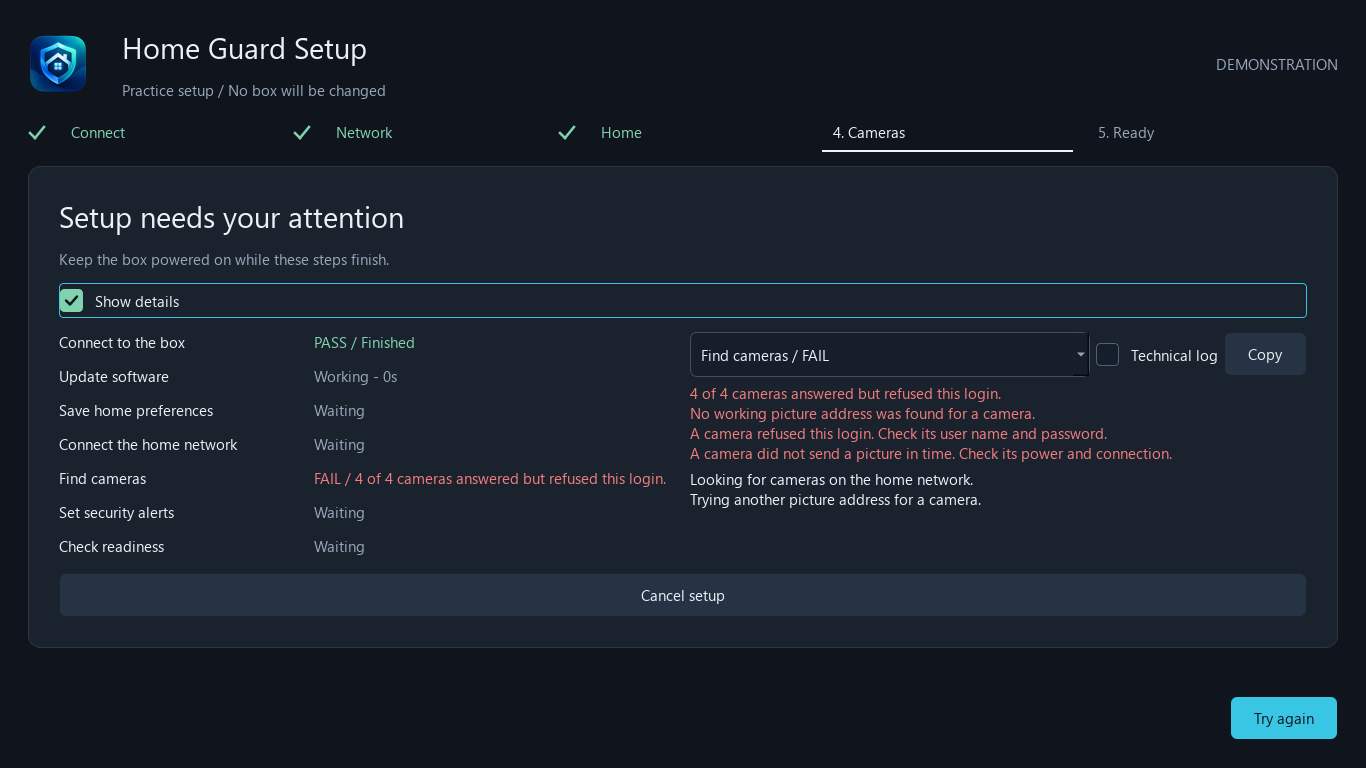
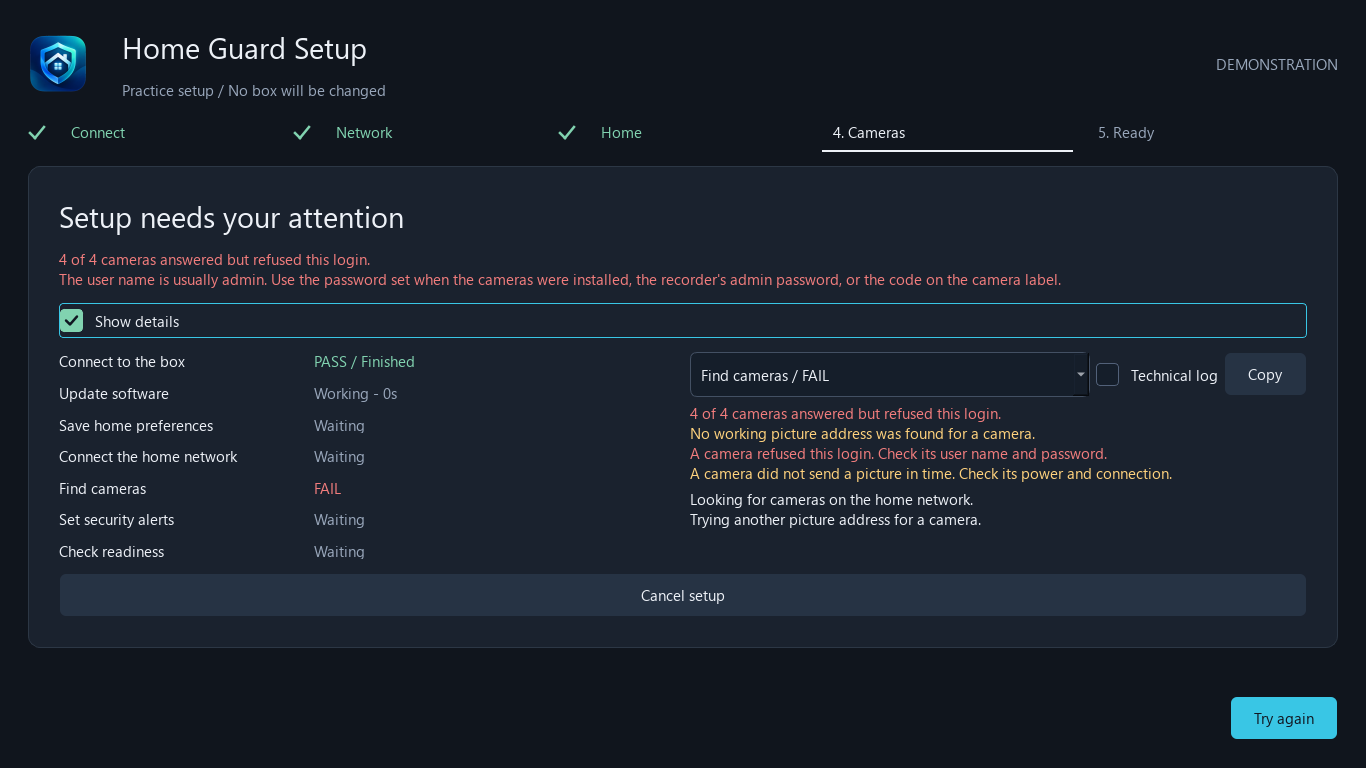
Discover Windows boxes locally and separate address from account name

diff --git a/home_guard_project/box/app/ui.py b/home_guard_project/box/app/ui.py
@@ -657,6 +657,8 @@ class Window(QMainWindow):
 
     def closeEvent(self, event):
         if hasattr(self, "camera_retry"): self.camera_retry.clear()
+        if hasattr(self, "discovery_timer"): self.discovery_timer.stop()
+        if hasattr(self, "discovery_pool"): self.discovery_pool.shutdown(wait=False, cancel_futures=True)
         if hasattr(self, "cameras_page"):
             self.cameras_page.close()
         if hasattr(self,"wizard_cameras"):
@@ -728,7 +730,27 @@ class Window(QMainWindow):
                 self.pages.addWidget(summary_scroll)
             else:
                 self.pages.addWidget(panel)
-        self.add_input(0, "address", tr("address"))
+        self.inputs["address"] = QLineEdit()
+        self.inputs["address"].hide()
+        self.field_guidance["address"] = label("")
+        self.field_guidance["address"].setStyleSheet("color: " + ERROR)
+        self.page_layouts[0].addWidget(label(tr("box_label")))
+        self.box_picker = QComboBox()
+        self.box_picker.addItem(tr("box_loading"), None)
+        self.page_layouts[0].addWidget(self.box_picker)
+        self.box_address = QLineEdit()
+        self.box_address.setPlaceholderText(tr("box_address_placeholder"))
+        self.page_layouts[0].addWidget(self.box_address)
+        self.box_hint = label(tr("box_loading"), "muted")
+        self.page_layouts[0].addWidget(self.box_hint)
+        self.page_layouts[0].addWidget(label(tr("box_user_label")))
+        self.box_user = QLineEdit()
+        self.page_layouts[0].addWidget(self.box_user)
+        self.page_layouts[0].addWidget(label(tr("box_user_help"), "muted"))
+        self.page_layouts[0].addWidget(self.field_guidance["address"])
+        self.box_picker.currentIndexChanged.connect(self.choose_box)
+        self.box_address.textChanged.connect(self.compose_box_target)
+        self.box_user.textChanged.connect(self.compose_box_target)
         self.network = QComboBox()
         self.network.addItems([tr("ethernet"), tr("wifi")])
         self.page_layouts[1].addWidget(self.network)
@@ -882,6 +904,22 @@ class Window(QMainWindow):
             from .preferences import AddressPreference
             self.address_preference=AddressPreference()
             self.inputs["address"].setText(self.address_preference.load())
+        saved_target = self.inputs["address"].text()
+        if "@" in saved_target:
+            saved_user, saved_box = saved_target.split("@", 1)
+            if self.args.demo: self.box_user.setText(saved_user)
+            else: self.box_user.setText(self.address_preference.load_user())
+            self.box_address.setText(saved_box)
+        if self.args.demo:
+            from .box_discovery import Peer
+            self.populate_boxes([Peer(tr("demo_box_name"), "100.100.100.10", True)])
+        else:
+            from .box_discovery import discover
+            self.discovery_pool=ThreadPoolExecutor(max_workers=1)
+            self.discovery_future=self.discovery_pool.submit(discover)
+            self.discovery_timer=QTimer(self)
+            self.discovery_timer.timeout.connect(self.poll_boxes)
+            self.discovery_timer.start(100)
         self.find.setChecked(not self.args.skip_cameras)
         self.alerts.setChecked(self.args.alerts)
         if self.args.wifi:
@@ -962,6 +1000,36 @@ class Window(QMainWindow):
     def valid_page(self,index):
         return not self.errors_for_page(index)
 
+    def compose_box_target(self):
+        self.inputs["address"].setText(self.box_user.text().strip()+"@"+self.box_address.text().strip())
+
+    def choose_box(self, index):
+        address=self.box_picker.itemData(index)
+        self.box_address.setVisible(not bool(address))
+        if address: self.box_address.setText(address)
+
+    def populate_boxes(self, peers):
+        remembered=self.box_address.text()
+        self.box_picker.blockSignals(True)
+        self.box_picker.clear()
+        for peer in peers:
+            self.box_picker.addItem(tr("box_peer", name=peer.name, address=peer.address)+("" if peer.online else tr("box_offline")), peer.address)
+        self.box_picker.addItem(tr("box_manual"), None)
+        selection=next((i for i in range(self.box_picker.count()) if self.box_picker.itemData(i)==remembered), self.box_picker.count()-1 if remembered else 0)
+        self.box_picker.setCurrentIndex(selection)
+        self.box_picker.blockSignals(False)
+        self.box_picker.setVisible(bool(peers))
+        self.box_hint.setText(tr("box_pick_hint") if peers else tr("box_address_help"))
+        self.choose_box(selection)
+        self.compose_box_target()
+
+    def poll_boxes(self):
+        if self.discovery_future.done():
+            self.discovery_timer.stop()
+            try: peers=self.discovery_future.result()
+            except Exception: peers=[]
+            self.populate_boxes(peers)
+
     def next_page(self):
         index = self.pages.currentIndex()
         if index == 5:
@@ -979,13 +1047,14 @@ class Window(QMainWindow):
         if index == 6:
             self.begin_setup()
             return
+        if index == 0: self.compose_box_target()
         errors = self.errors_for_page(index)
         if errors:
             for key,message in errors.items():
                 self.inputs[key].setStyleSheet(f"border: 1px solid {ERROR};")
-                self.field_guidance[key].setText(tr(message))
+                self.field_guidance[key].setText(tr("box_target_error") if index == 0 and key == "address" else tr(message))
                 self.field_guidance[key].show()
-            self.inputs[next(iter(errors))].setFocus()
+            (self.box_user if not self.box_user.text().strip() else self.box_address).setFocus() if index == 0 else self.inputs[next(iter(errors))].setFocus()
             return
         if index == 0 and not self.args.demo:
             try: self.address_preference.save(self.inputs["address"].text().strip())
@@ -1115,6 +1184,9 @@ class Window(QMainWindow):
             item=self.check_labels[i];item.setText(event.status+tr("separator")+event.text)
             item.setStyleSheet("color: "+(ERROR if event.status=="FAIL" else WARNING if event.status=="WARN" else OK))
         self.camera_retry.clear()
+        if not self.args.demo:
+            try: self.address_preference.save_success(self.run_answers.address)
+            except OSError: pass
         self.later.setVisible(not self.run_answers.find_cameras)
         self.setup_success()
 

diff --git a/tests/box/test_box_discovery.py b/tests/box/test_box_discovery.py
@@ -1,0 +1,36 @@
+import json
+import tempfile
+import unittest
+from pathlib import Path
+from types import SimpleNamespace
+from home_guard_project.box.app.box_discovery import parse_peers, discover, compose_target
+from home_guard_project.box.app.preferences import AddressPreference
+
+class BoxDiscoveryTests(unittest.TestCase):
+    def test_windows_only_online_first_deduplicated(self):
+        peers={'a':{'OS':'windows','HostName':'Z box','Online':True,'TailscaleIPs':['100.100.100.10']},'b':{'OS':'windows','HostName':'A box','Online':False,'TailscaleIPs':['100.100.100.11']},'c':{'OS':'linux','Online':True,'TailscaleIPs':['100.100.100.12']}}
+        result=parse_peers(json.dumps({'Peer':peers}))
+        self.assertEqual([p.name for p in result],['Z box','A box'])
+        self.assertEqual(compose_target(' installer ','100.100.100.10 '),'installer@100.100.100.10')
+        with self.assertRaises(ValueError): compose_target('bad user','box.example')
+    def test_local_runner_missing_and_empty(self):
+        calls=[]
+        def runner(command,**kwargs):
+            calls.append(command)
+            self.assertNotIn('VIRTUAL_ENV',kwargs['env'])
+            return SimpleNamespace(returncode=0,stdout='{"Peer": {}}')
+        self.assertEqual(discover(runner),[])
+        self.assertEqual(calls,[['tailscale','status','--json']])
+        def missing(*a,**kw): raise FileNotFoundError()
+        self.assertEqual(discover(missing),[])
+        self.assertEqual(parse_peers('bad JSON'),[])
+    def test_user_changes_only_after_success(self):
+        with tempfile.TemporaryDirectory() as directory:
+            pref=AddressPreference(Path(directory)/'last_box.json')
+            pref.save('installer@box.example')
+            self.assertEqual(pref.load_user(),'')
+            pref.save_success('installer@box.example')
+            pref.save('new_user@another.example')
+            self.assertEqual(pref.load(),'new_user@another.example')
+            self.assertEqual(pref.load_user(),'installer')
+            self.assertEqual(set(json.loads(pref.path.read_text())),{'target','successful_user'})

diff --git a/home_guard_project/box/app/box_discovery.py b/home_guard_project/box/app/box_discovery.py
@@ -1,0 +1,41 @@
+"""Local Tailscale inventory; never opens a connection to a peer."""
+from dataclasses import dataclass
+import json
+import os
+import subprocess
+from .remote_cameras import target_user
+
+@dataclass(frozen=True)
+class Peer:
+    name: str
+    address: str
+    online: bool
+
+def parse_peers(output):
+    try:
+        data=json.loads(output)
+        peers=data.get('Peer', {})
+        values=peers.values() if isinstance(peers,dict) else peers
+        result={}
+        for peer in values:
+            if str(peer.get('OS','')).lower() != 'windows': continue
+            addresses=peer.get('TailscaleIPs', [])
+            address=next((a for a in addresses if ':' not in a), addresses[0] if addresses else '')
+            if not address: continue
+            target_user('user@'+address)
+            name=str(peer.get('HostName') or peer.get('DNSName') or address).rstrip('.')
+            result[address]=Peer(name,address,bool(peer.get('Online',False)))
+        return sorted(result.values(), key=lambda p:(not p.online,p.name.lower(),p.address))
+    except (ValueError,TypeError,AttributeError): return []
+
+def discover(runner=subprocess.run):
+    env=os.environ.copy();env.pop('VIRTUAL_ENV',None)
+    try:
+        result=runner(['tailscale','status','--json'],capture_output=True,text=True,encoding='utf-8',errors='replace',timeout=15,env=env,creationflags=getattr(subprocess,'CREATE_NO_WINDOW',0))
+        return parse_peers(result.stdout) if result.returncode == 0 else []
+    except (OSError,subprocess.TimeoutExpired): return []
+
+def compose_target(user,address):
+    value=user.strip()+'@'+address.strip()
+    target_user(value)
+    return value

diff --git a/home_guard_project/box/app/setup_details_ui.py b/home_guard_project/box/app/setup_details_ui.py
@@ -1,3 +1,5 @@
+from html import escape
+from PySide6.QtCore import Qt
 from PySide6.QtWidgets import QWidget,QVBoxLayout,QHBoxLayout,QComboBox,QLabel,QTextEdit,QPushButton,QCheckBox,QApplication,QScrollArea
 from .strings import tr
 from .theme import ERROR,WARNING,OK,MUTED
@@ -43,10 +45,10 @@ class DetailsPanel(QWidget):
     def render(self):
         if not hasattr(self,'model'): return
         step=ENGINE_STEPS[max(0,self.steps.currentIndex())];group=self.model.groups[step]
-        warnings=[text for role,text in group.messages if role in ('warning','error')]
-        if group.status in ('fail','warn') and group.result: warnings.insert(0,group.result)
-        self.attention.setText('\n'.join(dict.fromkeys(warnings)))
-        self.attention.setStyleSheet('color: '+(ERROR if group.status=='fail' or any(role=='error' for role,_ in group.messages) else WARNING))
+        warnings=[(role,text) for role,text in group.messages if role in ('warning','error')]
+        if group.status in ('fail','warn') and group.result: warnings.insert(0,('error' if group.status=='fail' else 'warning',group.result))
+        self.attention.setTextFormat(Qt.TextFormat.RichText)
+        self.attention.setText('<br>'.join('<span style="color:'+ (ERROR if role=='error' else WARNING)+'">'+escape(text)+'</span>' for role,text in dict.fromkeys(warnings)))
         self.attention.setVisible(bool(warnings))
         ordinary=[text for role,text in group.messages if role not in ('warning','error')]
         self.readable.setText('\n'.join(ordinary) or tr('details_empty'))

diff --git a/home_guard_project/box/app/strings.py b/home_guard_project/box/app/strings.py
@@ -1,6 +1,19 @@
 """All visible application copy; keys remain stable for translation."""
 
 TEXT = {
+    "demo_box_name": "Home Guard box",
+    "box_label": "The box",
+    "box_loading": "Looking for Windows boxes on this laptop's Tailscale network...",
+    "box_address_placeholder": "Box address, for example 100.100.100.10",
+    "box_user_label": "Windows user name on the box",
+    "box_user_help": "The Windows account on the box. On the box, open Command Prompt and type whoami; it is the part after the backslash.",
+    "box_manual": "Type an address",
+    "box_peer": "{name} - {address}",
+    "box_offline": " (offline)",
+    "box_pick_hint": "Choose the customer's box by name, or type its address.",
+    "box_address_help": "On this laptop, open Tailscale and copy the address of the customer's box.",
+    "box_target_error": "Enter the box address and its Windows user name (letters, digits, underscores, dots or hyphens).",
+
     "camera_login_help": "The user name is usually admin. Use the password set when the cameras were installed, the recorder's admin password, or the code on the camera label.",
     "camera_lock_warning": "Before trying a third time: some cameras lock logins for a while after repeated failures. Check the password before continuing.",
     "retry_confirming": "Confirming the earlier steps, then trying the new camera login.",

diff --git a/home_guard_project/box/app/preferences.py b/home_guard_project/box/app/preferences.py
@@ -14,13 +14,24 @@ class AddressPreference:
             target_user(value)
             return value
         except (OSError,ValueError,KeyError,TypeError): return ''
-    def save(self,target):
+    def load_user(self):
+        try:
+            value=json.loads(self.path.read_text(encoding="utf-8")).get("successful_user", "")
+            target_user(value+"@box.example")
+            return value
+        except (OSError,ValueError,TypeError,AttributeError): return ""
+    def save_success(self,target):
+        self.save(target, successful_user=target_user(target))
+    def save(self,target,successful_user=None):
         target_user(target)
+        remembered = successful_user or self.load_user()
+        data = {"target": target}
+        if remembered: data["successful_user"] = remembered
         self.path.parent.mkdir(parents=True,exist_ok=True)
         descriptor,name=tempfile.mkstemp(prefix='last-box-',suffix='.tmp',dir=self.path.parent)
         temporary=Path(name)
         try:
             with os.fdopen(descriptor,'w',encoding='utf-8') as stream:
-                json.dump({'target':target},stream)
+                json.dump(data,stream)
             os.replace(temporary,self.path)
         finally: temporary.unlink(missing_ok=True)

diff --git a/tests/box/test_setup_details.py b/tests/box/test_setup_details.py
@@ -28,3 +28,11 @@ class SetupDetailsTests(unittest.TestCase):
         model.feed(parser.parse('password=private-marker rtsp://private-marker@box.example/stream'))
         model.feed(parser.parse('@@rescue hotspot private-marker'))
         self.assertNotIn('private-marker',model.technical_log());self.assertNotIn('@@rescue',model.technical_log())
+
+class AddressRedactionTests(unittest.TestCase):
+    def test_bare_camera_address_is_hidden_in_support_log(self):
+        from home_guard_project.box.app.engine_backend import OutputParser
+        model=DetailsModel()
+        model.feed(OutputParser().parse('No working RTSP pattern found for 192.0.2.10:554'))
+        self.assertNotIn('192.0.2.10',model.technical_log())
+        self.assertTrue(model.groups['connect'].messages)

diff --git a/home_guard_project/box/app/engine_backend.py b/home_guard_project/box/app/engine_backend.py
@@ -31,6 +31,7 @@ class OutputParser:
         for secret in sorted(self.secrets,key=len,reverse=True):
             text=text.replace(secret,tr('hidden'))
         text=re.sub(r'\b[^\s@]+@[^\s@]+\b',tr('hidden_address'),text)
+        text=re.sub(r'(?<![\w.])(?:\d{1,3}\.){3}\d{1,3}(?::\d+)?',tr('hidden_address'),text)
         return redact(text)
     def parse(self,line):
         line=line.strip()
